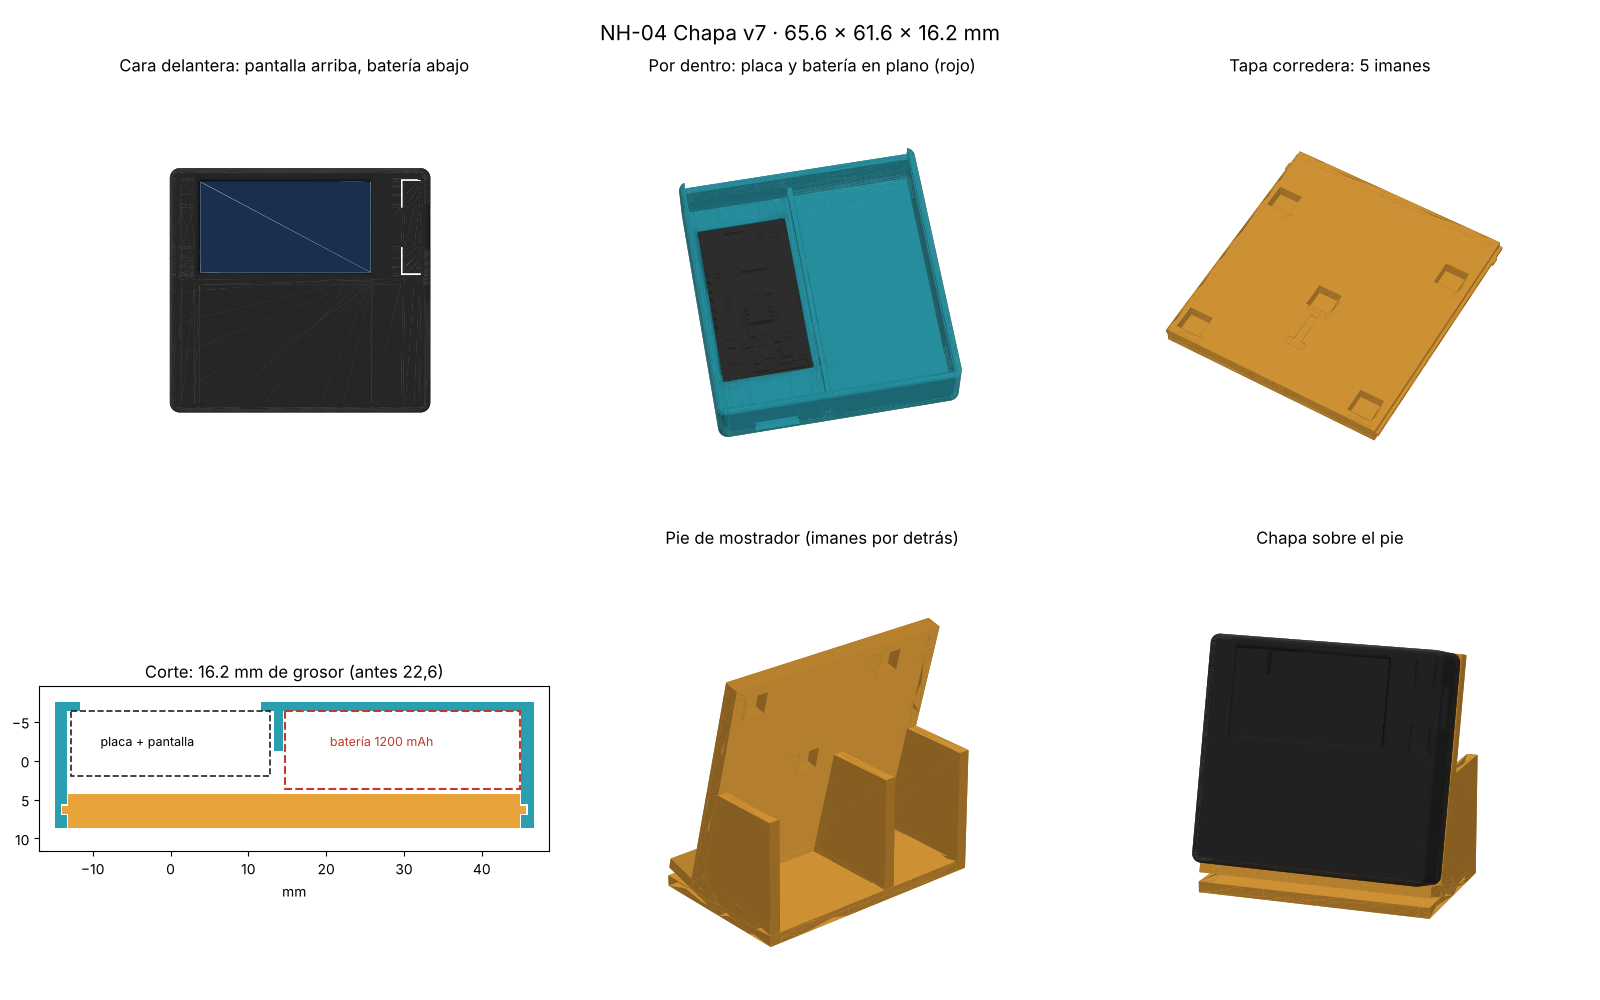
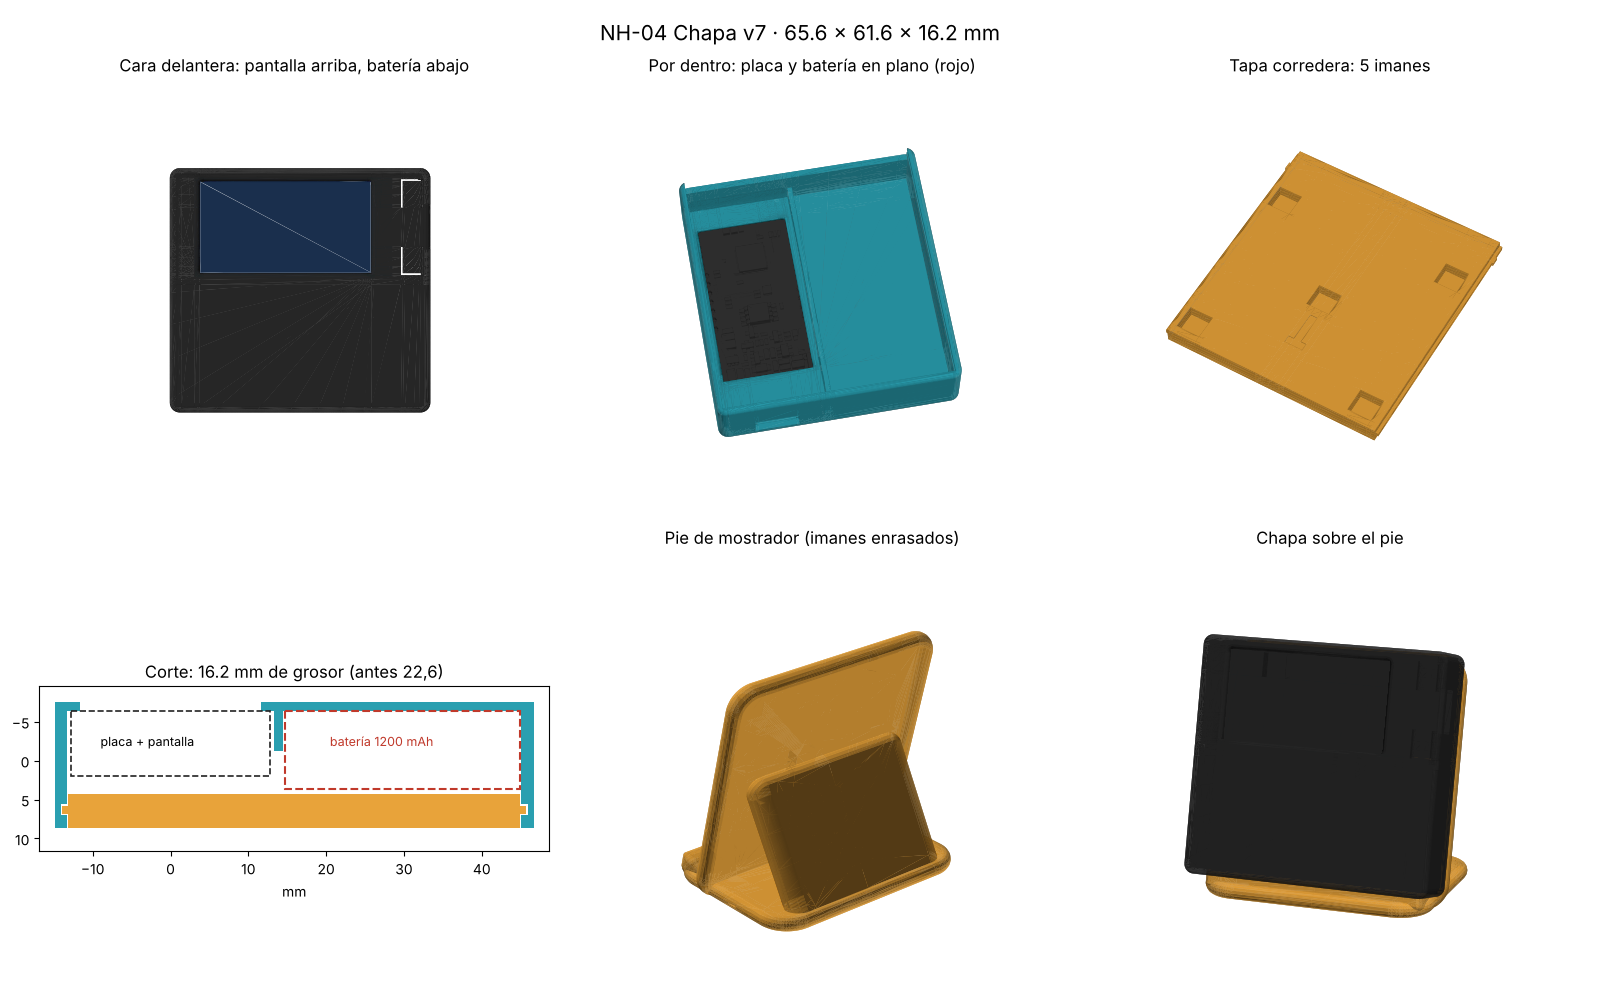
Imágenes de la caja plana con el pie nuevo
Claude-Session: https://claude.ai/code/session_01TtNH8SMP7DJwPqra8Ujtwe

diff --git a/caja/preview7.py b/caja/preview7.py
@@ -6,7 +6,7 @@ spec = importlib.util.spec_from_file_location("c", "caja_chapa_nh.py"); c = impo
 def load(p):
     b = open(p, "rb").read(); n = struct.unpack("<I", b[80:84])[0]
     return np.frombuffer(b[84:84 + n * 50], dtype=np.dtype([("n", "<3f4"), ("v", "<9f4"), ("a", "<u2")]))["v"].reshape(-1, 3, 3).astype(float)
-cu = load("plana_1200mAh/chapa_nh_cuerpo.stl"); ta = load("plana_1200mAh/chapa_nh_tapa.stl"); pie = load("plana_1200mAh/chapa_nh_pie.stl")
+cu = load("v7/chapa_nh_cuerpo.stl"); ta = load("v7/chapa_nh_tapa.stl"); pie = load("v7/chapa_nh_pie.stl")
 bd = load(sys.argv[1])
 ta_b = ta.copy(); ta_b[..., 2] = c.OZ1 - ta_b[..., 2]
 bat = c.triangulos(*c.solido([(1, c.B(c.BX0 + 0.2, c.BX1 - 0.2, 10.0, 50.0, c.IZ0, c.IZ0 + 10.0))]))
@@ -21,7 +21,7 @@ def setup(ax, t, el, az, title):
     ax.set_xlim(m[0] - r, m[0] + r); ax.set_ylim(m[1] - r, m[1] + r); ax.set_zlim(m[2] - r, m[2] + r)
     ax.view_init(el, az); ax.set_axis_off(); ax.set_box_aspect((1, 1, 1)); ax.set_title(title, fontsize=12)
 # chapa sobre el pie
-a = np.radians(c.PIE_ANG); ca, sa = np.cos(a), np.sin(a); z0 = 3.0 + 3.0 * ca + 0.2
+a = np.radians(c.PIE_ANG); ca, sa = np.cos(a), np.sin(a); z0 = 4.0 - 0.8
 def al_pie(t):
     u = -t[..., 1]; v = c.XO1 - t[..., 0]; w = t[..., 2] - c.OZ1
     return np.stack([u, w * ca + v * sa, v * ca - w * sa + z0], -1)
@@ -47,7 +47,7 @@ ax.add_patch(plt.Rectangle((-c.PCB_X, c.LCD_Z), 2 * c.PCB_X, -c.LCD_Z + 2.0, fil
 ax.text(-9, c.LCD_Z + 4.5, "placa + pantalla", fontsize=9)
 ax.set_aspect("equal"); ax.set_xlim(c.XO0 - 2, c.XO1 + 2); ax.set_ylim(c.OZ0 - 2, c.OZ1 + 3); ax.invert_yaxis()
 ax.set_title("Corte: %.1f mm de grosor (antes 22,6)" % (c.OZ1 - c.OZ0), fontsize=12); ax.set_xlabel("mm")
-ax = fig.add_subplot(2, 3, 5, projection="3d"); draw(ax, pie, "#e8a33a"); setup(ax, pie, 25, 50, "Pie de mostrador (imanes por detrás)")
+ax = fig.add_subplot(2, 3, 5, projection="3d"); draw(ax, pie, "#e8a33a"); setup(ax, pie, 25, 50, "Pie de mostrador (imanes enrasados)")
 ax = fig.add_subplot(2, 3, 6, projection="3d"); draw(ax, pie, "#e8a33a")
 ch = np.concatenate([al_pie(cu), al_pie(ta_b)]); draw(ax, ch, "#2b2b2b")
 draw(ax, al_pie(bd[bd[..., 2].min(1) < -5.5]), "#1d3557"); setup(ax, np.concatenate([ch, pie]), 15, -70, "Chapa sobre el pie")
